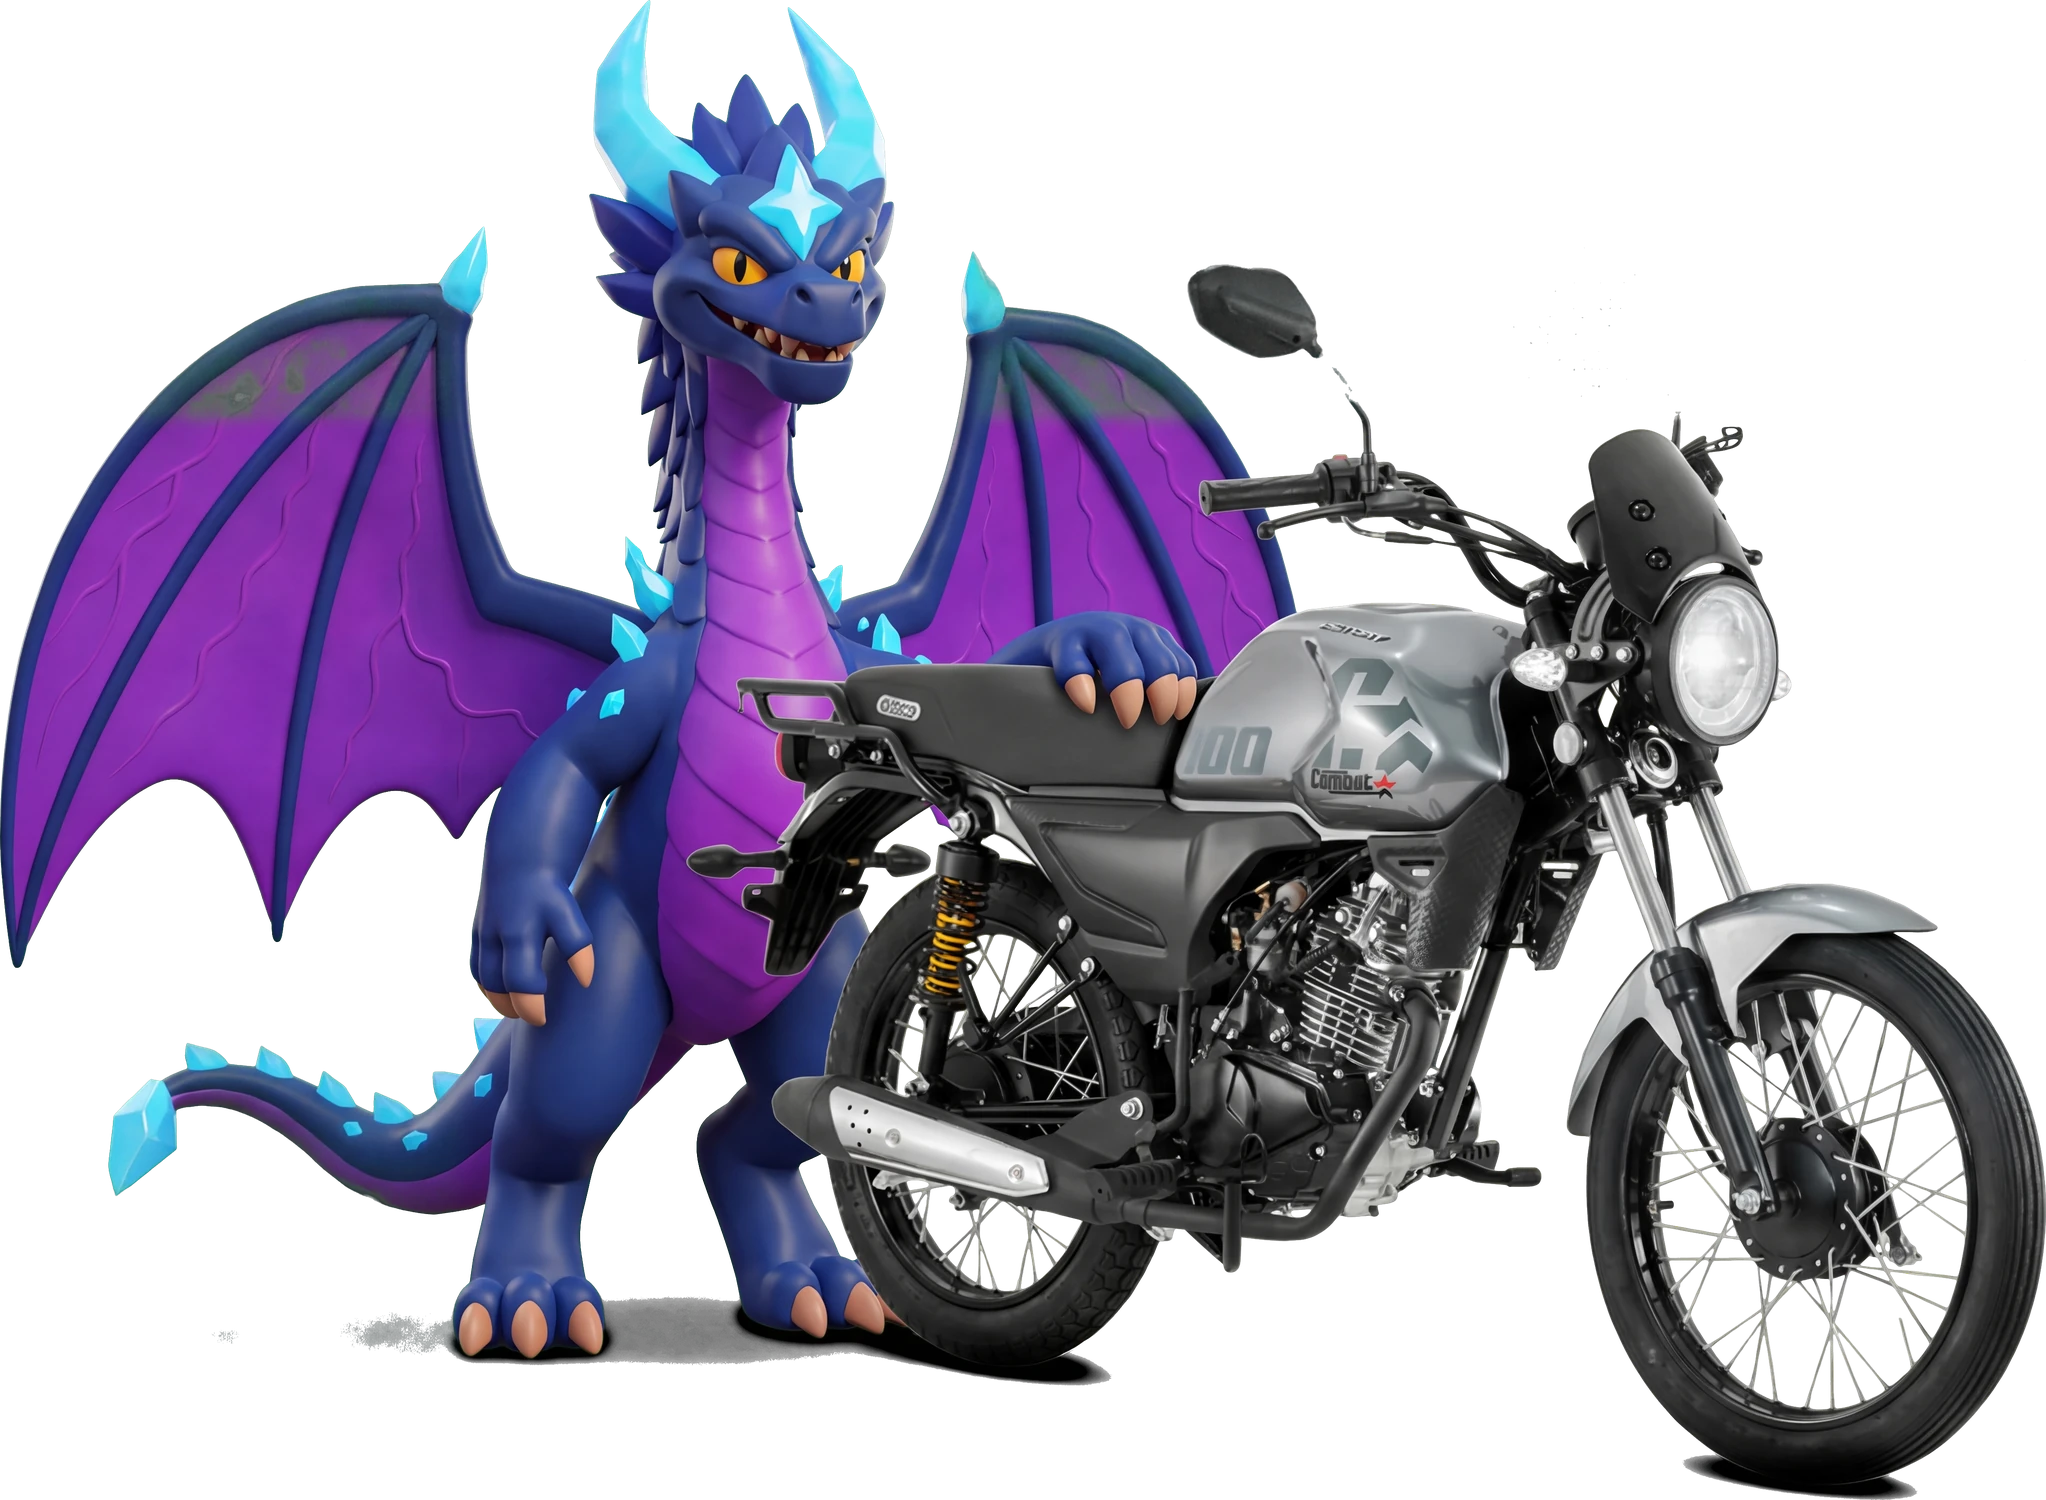
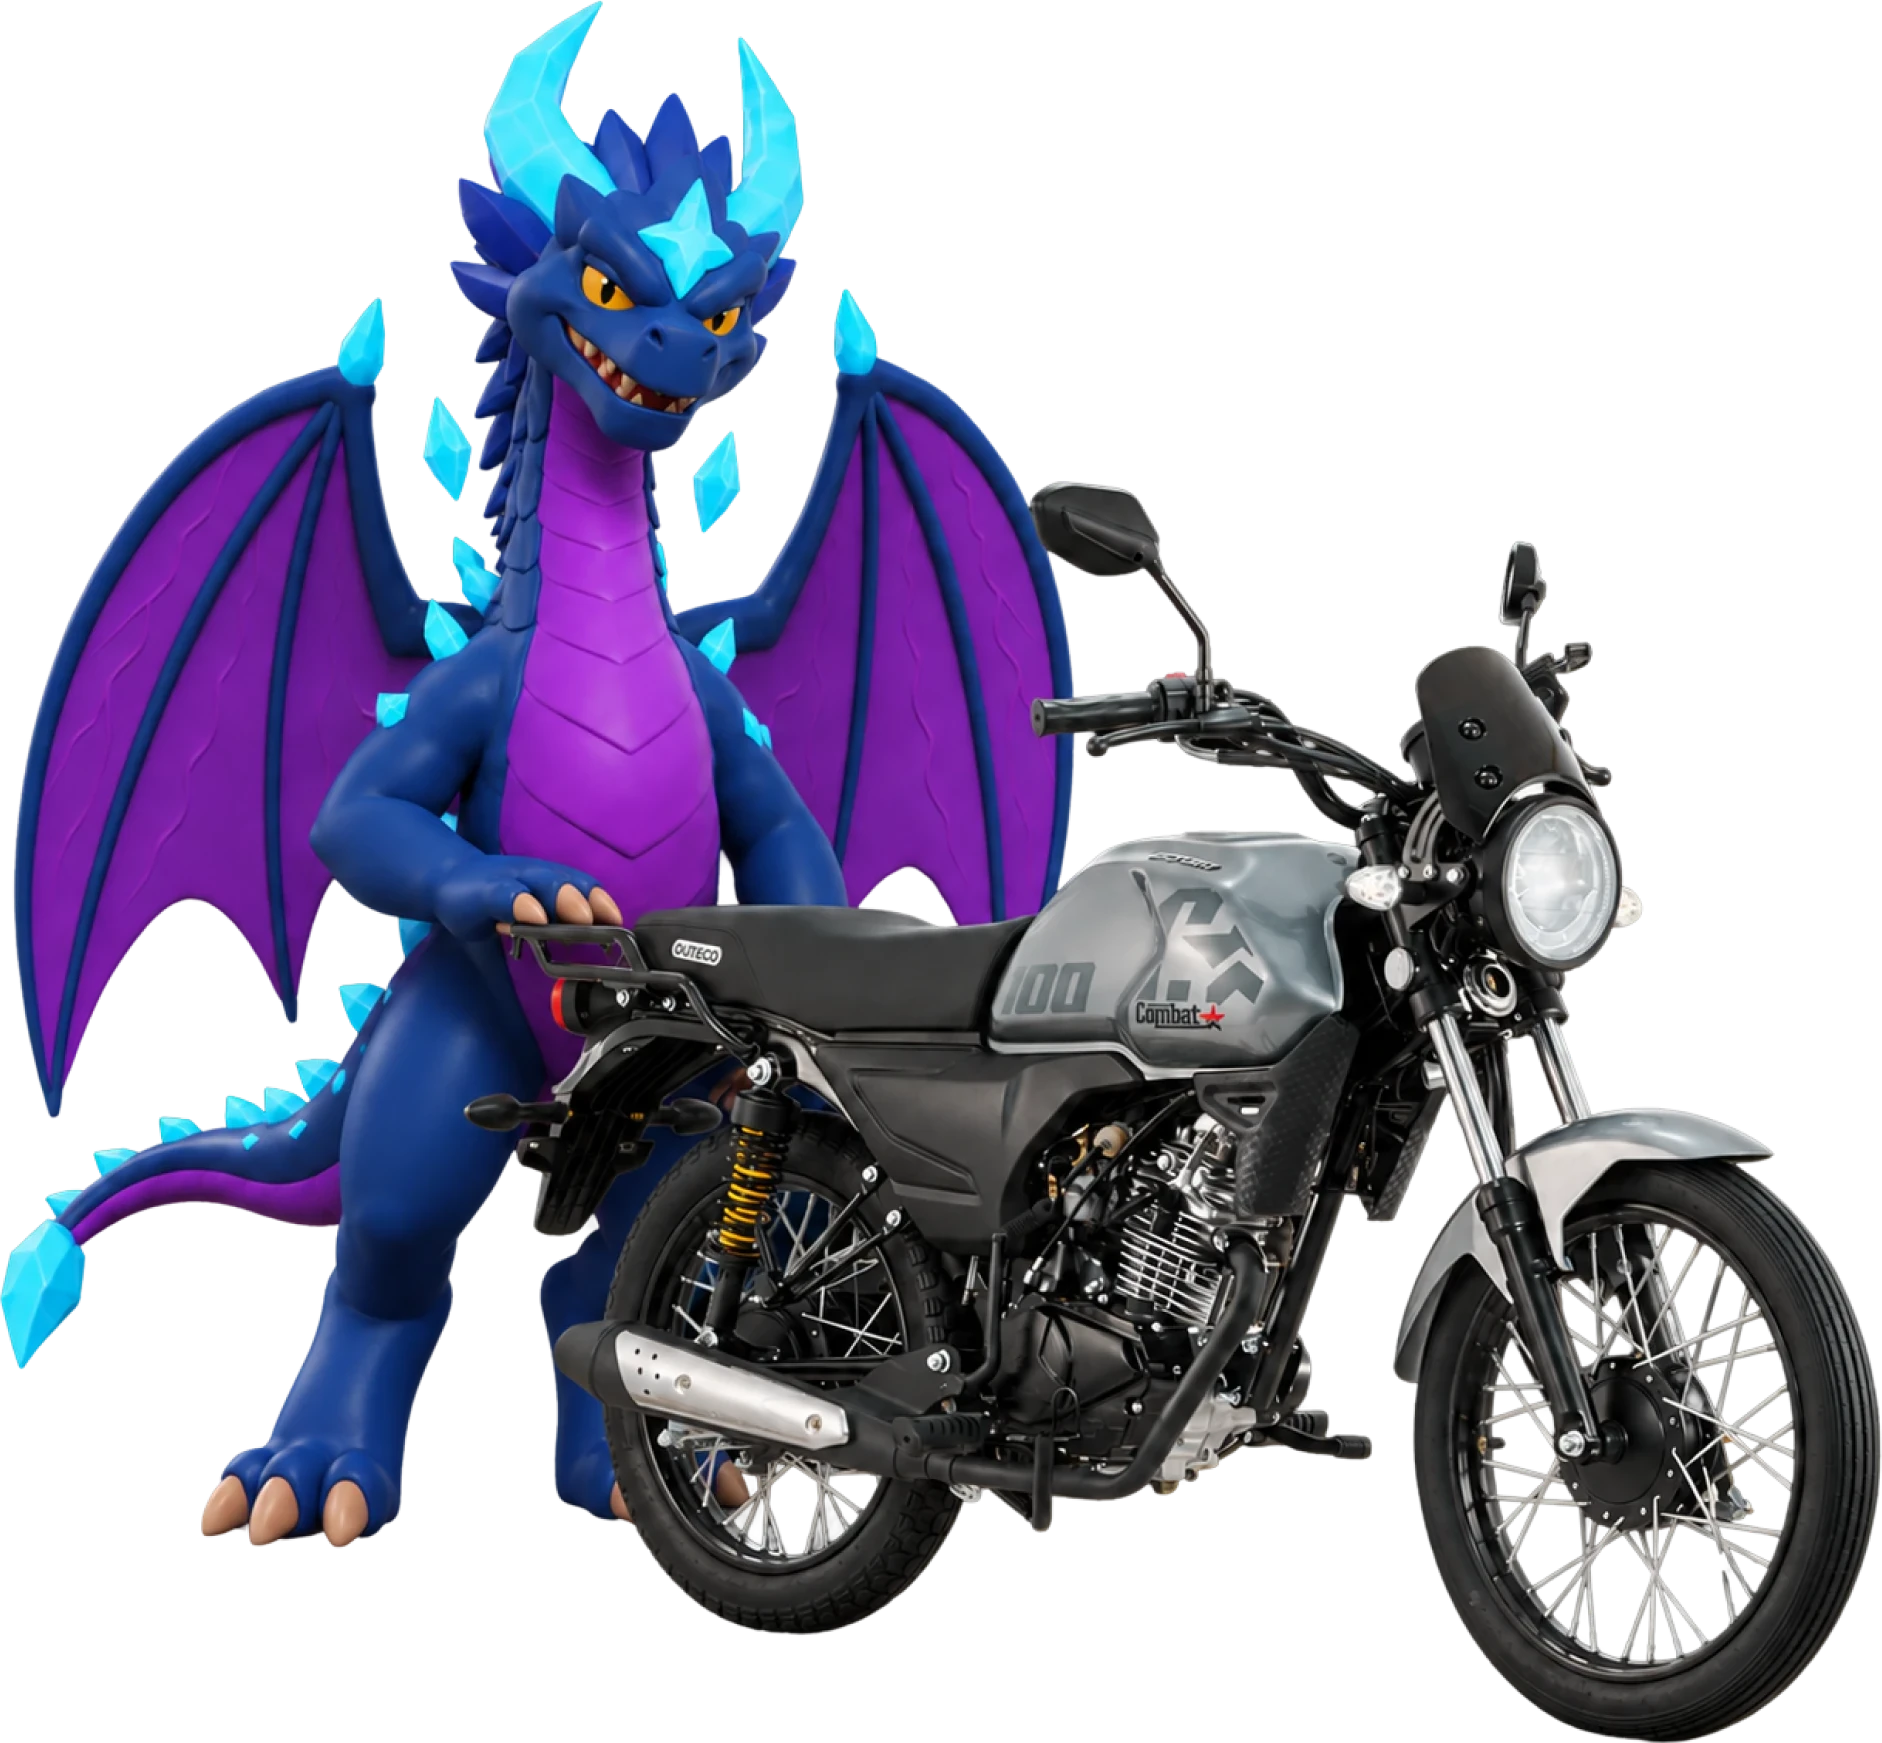
Imagen de Siderax con la moto hecha por el equipo, con fondo limpio
Reemplaza la versión generada que tenía restos del fondo verde. La escena
ocupa el 52% del alto; la moto queda centrada bajo la ruleta y su espejo
debajo del botón Girar.

diff --git a/index.html b/index.html
@@ -69,8 +69,8 @@ body.guides .side .guide { opacity: 1; }
 /* Siderax parado a la izquierda de la moto, con la mano sobre el asiento de atrás (imagen compuesta).
    La moto queda centrada bajo la ruleta y su espejo termina justo debajo del botón Girar. */
 .moto {
-  position: absolute; z-index: 3; left: 4.4cqh; bottom: 1.5cqh;
-  display: block; height: 45cqh; width: auto; max-width: 100%; object-fit: contain; pointer-events: none;
+  position: absolute; z-index: 3; left: 11.4cqh; bottom: 1.5cqh;
+  display: block; height: 52cqh; width: auto; max-width: 100%; object-fit: contain; pointer-events: none;
   filter: drop-shadow(0 1.4cqh 1.6cqh rgba(0,0,0,.8));
 }
 .tix { color: var(--g-brand); }
